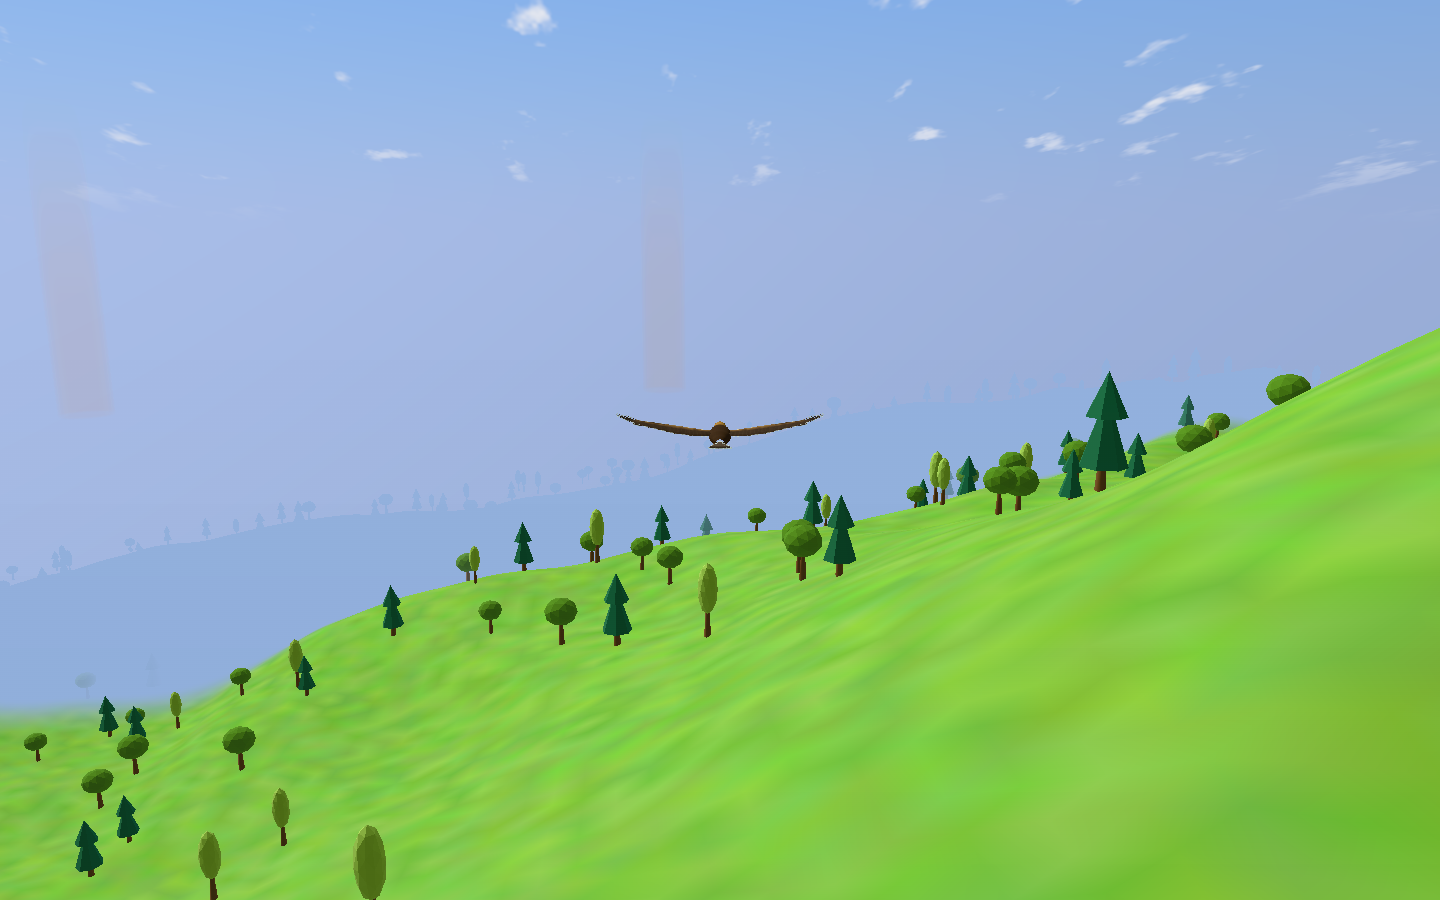
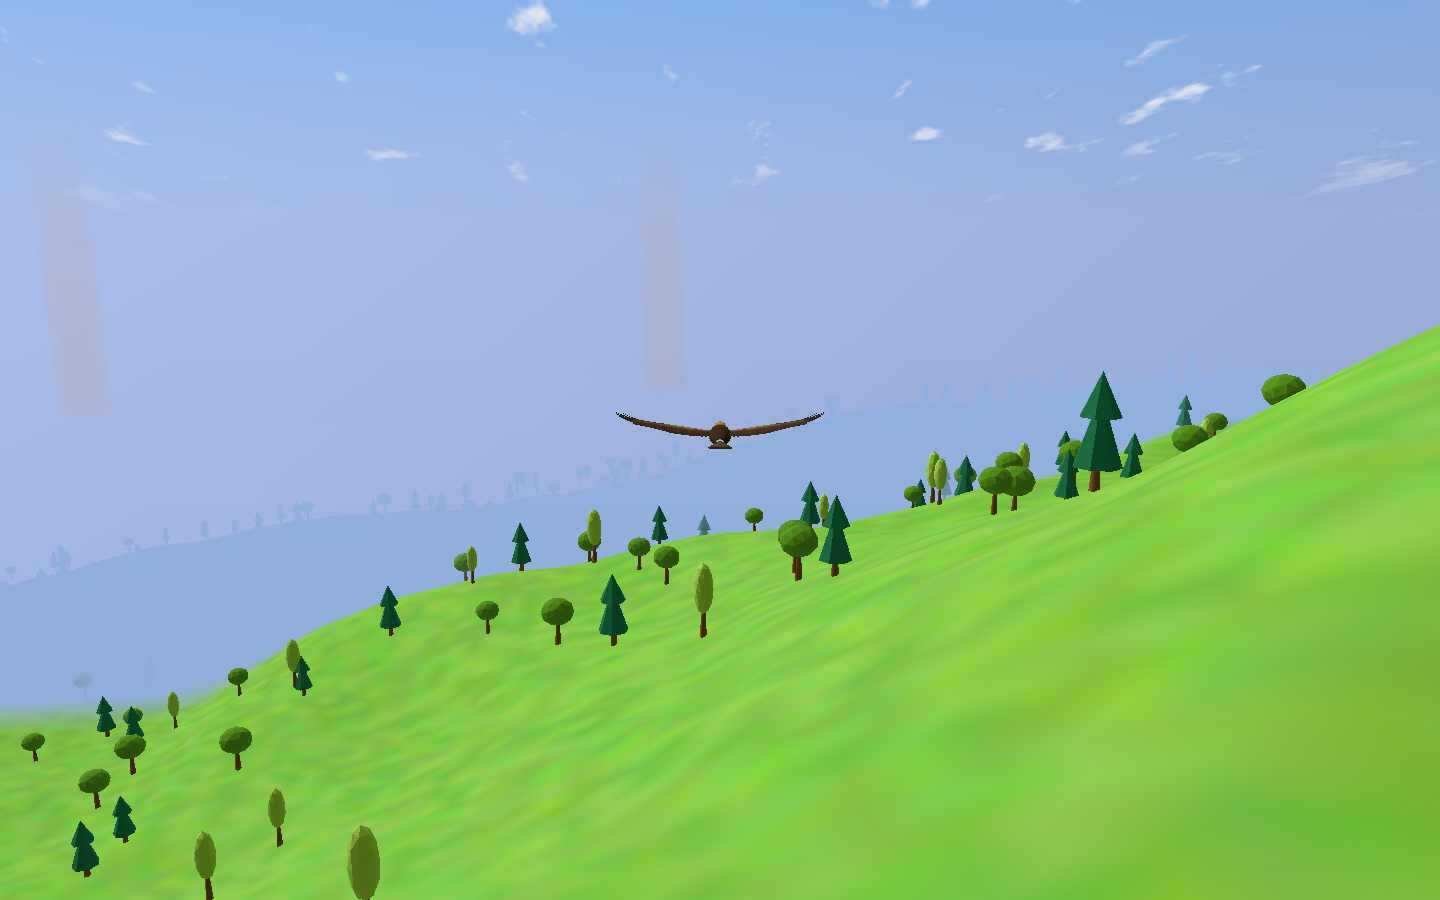
Eagle: hard alpha cut so the bird whites out inside the cloud deck
Alpha-to-coverage left partial alpha on the feather edges, which showed
as white specks inside the cloud deck and failed the cloud-layer smoke.

Claude-Session: https://claude.ai/code/session_017DyQZ3VraenJqUDf9wPf3b

diff --git a/src/eagle-model.ts b/src/eagle-model.ts
@@ -534,9 +534,8 @@ export function buildEagleMesh(): { mesh: THREE.SkinnedMesh; bones: THREE.Bone[]
     FINGERS.forEach((finger, i) => bone(wrist, `${side}-finger-${i}`, sign * (finger.base[0] - WRIST_X), 0, finger.base[1] - 1.0));
   }
   const map = featherAtlas();
-  const material = new THREE.MeshStandardMaterial({
-    map, vertexColors: true, roughness: 0.9, alphaTest: map ? 0.5 : 0, alphaToCoverage: map !== null,
-  });
+  // A hard alpha cut, not alpha-to-coverage: its partial edge alpha shows as white specks in the cloud deck.
+  const material = new THREE.MeshStandardMaterial({ map, vertexColors: true, roughness: 0.9, alphaTest: map ? 0.5 : 0 });
   const mesh = new THREE.SkinnedMesh(b.geometry(), material);
   mesh.add(root);
   mesh.bind(new THREE.Skeleton(bones));
